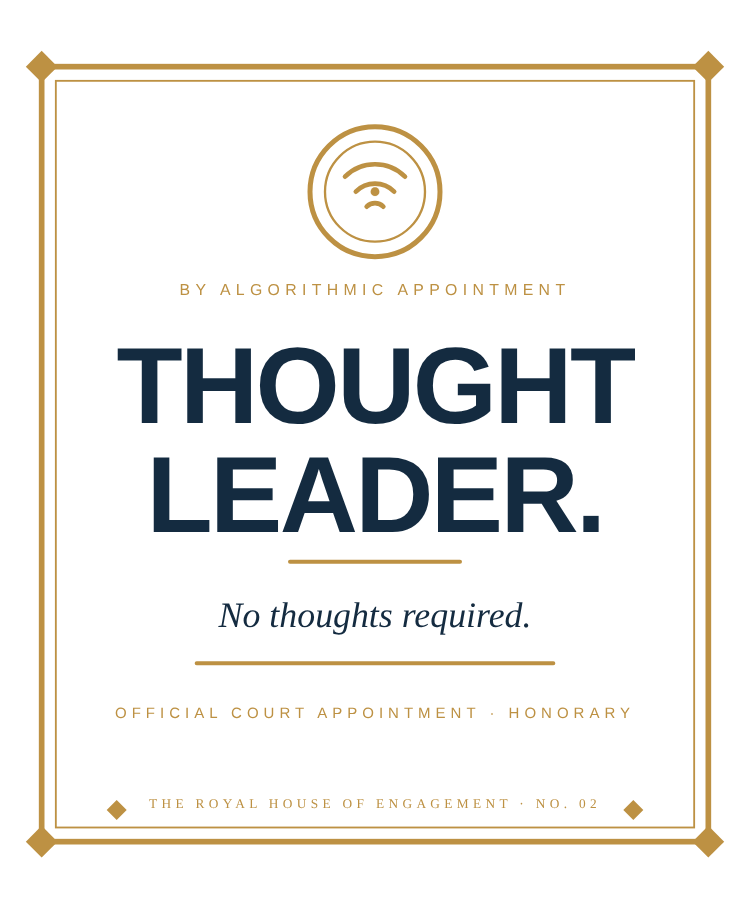
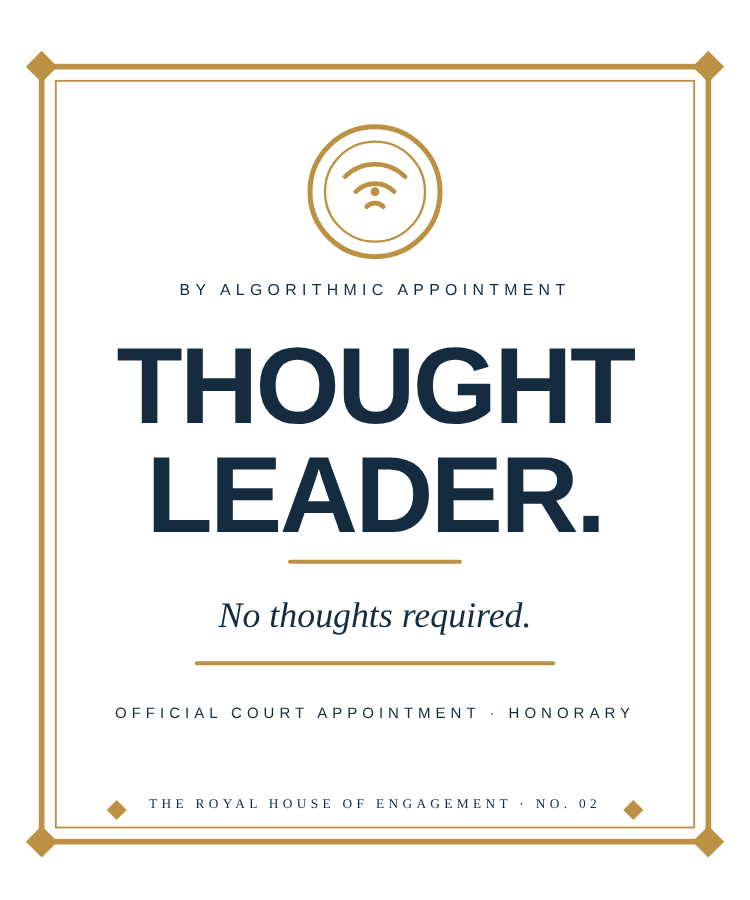
Content gap analysis and Nos. 01-06 art refinement
Adds docs/product/content-gaps.md, corrects Houses in the sayings review,
adds the House mark to Nos. 01/04/05/06 and fixes No. 02 small-text contrast.

Claude-Session: https://claude.ai/code/session_019KYkRSWygg54UkYKWo1Bsc

diff --git a/docs/product/content-gaps.md b/docs/product/content-gaps.md
@@ -1,0 +1,56 @@
+# Content gaps and design refinement plan
+
+Status: October 31, 2026. Built from the apparel manifest, the sayings review and the live site. Companion to [sayings-review.md](sayings-review.md).
+
+## Where the founding ten are lopsided
+
+| Dimension | Today | Gap |
+|---|---|---|
+| Houses | Influence 5 (Nos. 01, 02, 05, 06, 08), Scroll 1, Prompt 1, Signal 1, Buffer 1, the Crown 1 (No. 07), Spam 0 | Spam has no garment at all; Influence is half the collection. |
+| Forms | Public Notices 4, Court & Orders 4, Royal Commemorations 2 | Commemorations are thin against 12 calendar observances. |
+| Reigns | Algorithm 5 (Nos. 01, 02, 05, 06, 08), Scroll 1, Content 1, Prompt 1, Y2K 1, Moth 1 | LO, Spam, Emoticon, Web I and Web II have no issue. Half the collection sits under one reign. |
+| Peerage | No peerage title appears on a garment (the Baron of Buffering is a home-page panel only) | All five ranks are unused on shirts. |
+| Orders | Order of the Blue Check (No. 08) | Order of Jacquard has no garment. |
+| Calendar | 2 of 12 observances have a shirt (Moth, Y2K) | 10 dated releases are available for free. |
+
+The Wave 2 shortlist in the sayings review fixes most of this: it adds four Spam lines, three Buffer lines, a Scroll inscription, and five commemorations on LO, the Content Creator, Mandatory Emotional Context, the Infinite Scroll and Human Obsolescence.
+
+## Quantity
+
+- **Launch assortment:** 10 founding issues plus a Wave 2 of 10 gives 20 designs. That is enough to look like a House rather than a drop, and small enough to sample properly.
+- **Calendar engine:** each of the 12 observances is a dated commemoration. One a month after launch gives a year of content without inventing new concepts, and every release has a reason to exist on its date.
+- **Order of release:** founding ten first, then Wave 2 in two groups of five (one per House where possible), then commemorations on their dates.
+
+## Quality gaps on the site
+
+- Product pages have one line of copy. They still lack fit, fabric and care, a size chart, and a short note on how the shirt is made. These depend on the garment blank, which is not confirmed.
+- No real legal pages (Terms, Privacy, Cookies are pre-launch placeholders) and no returns or shipping copy.
+- Social links go to a "plans" page; the accounts do not exist.
+- Only some products have a studio mannequin mockup. The rest show flat art.
+- No email sign-up for launch, no Open Graph tags, sitemap or robots file.
+
+## Design refinement
+
+State of each design as of this pass:
+
+| No. | Design | Status | Refinement still needed |
+|---|---|---|---|
+| 01 | Please validate me algorithmically. | Shared frame, House mark, navy/oxblood | Outline type; size to provider template. |
+| 02 | Thought leader. No thoughts required. | Shared frame, seal, small text now navy for contrast | Outline type; the gold rules are low contrast on ivory, so check on a sample. |
+| 03 | I'm not doomscrolling. | Shared frame, ring and type on oxblood | Outline type; check that the gold ring survives printing on oxblood. |
+| 04 | Content creator. Meaning pending. | Shared frame, House mark | Outline type; the white "please wait" bar is a garment-colour knockout, not a third ink. |
+| 05 | My authentic self is currently being monetized. | Shared frame, House mark | Same knockout note for MONETIZED. |
+| 06 | I optimized this shirt for engagement. | Shared frame, House mark | Outline type; chart rules thin for small print. |
+| 07 | Much Published, Little Said | Full-colour plate, 1122 x 1402 | Needs print resolution (4500 x 5400 at 300 dpi) and a transparent background. |
+| 08 | Order of the Blue Check | Full-colour plate | Same. Black garment: confirm the black reads as the garment, not as ink. |
+| 09 | The End of the World Has Been Postponed | Full-colour plate | Same. Oxblood garment. |
+| 10 | Patron Saint of Debugging | Full-colour plate | Same. |
+
+Rules for every refinement: front only, House frame or plate language, inks limited to navy, oxblood, antique gold and ivory, no real person or company, Latin subordinate and glossed.
+
+## What is blocked on a decision
+
+- Garment blank and provider (Printify). Fit, fabric, size chart, colour names and print-area template all depend on it.
+- Print-resolution art for Nos. 07-10: needs either an artist/AI upscale pass or a vector redraw. It cannot be produced from the current files without quality loss.
+- Which ten Wave 2 sayings to take forward.
+- Trademark searches on the brand name, the House name, the tagline and the final ten sayings.

diff --git a/docs/product/sayings-review.md b/docs/product/sayings-review.md
@@ -21,13 +21,15 @@ A saying makes the shortlist only if it passes all five tests:
 
 ## The founding collection (already set)
 
+Houses are as recorded in the manifest. Public Notices with no realm intensity (Nos. 01, 04, 05) are shown to shoppers without a House.
+
 | No. | Saying | House | Form |
 |---|---|---|---|
-| 01 | Please validate me algorithmically. | Signal | Public Notice |
+| 01 | Please validate me algorithmically. | Influence | Public Notice |
 | 02 | Thought leader. No thoughts required. | Influence | Court & Order |
 | 03 | I'm not doomscrolling. I'm doing market research. | Scroll | Court & Order |
-| 04 | Content creator. Meaning pending. | none | Public Notice |
-| 05 | My authentic self is currently being monetized. | none | Public Notice |
+| 04 | Content creator. Meaning pending. | Prompt | Public Notice |
+| 05 | My authentic self is currently being monetized. | Influence | Public Notice |
 | 06 | I optimized this shirt for engagement. | Influence | Public Notice |
 | 07 | Much Published, Little Said | the Crown | Court & Order |
 | 08 | Order of the Blue Check | Influence | Court & Order |
